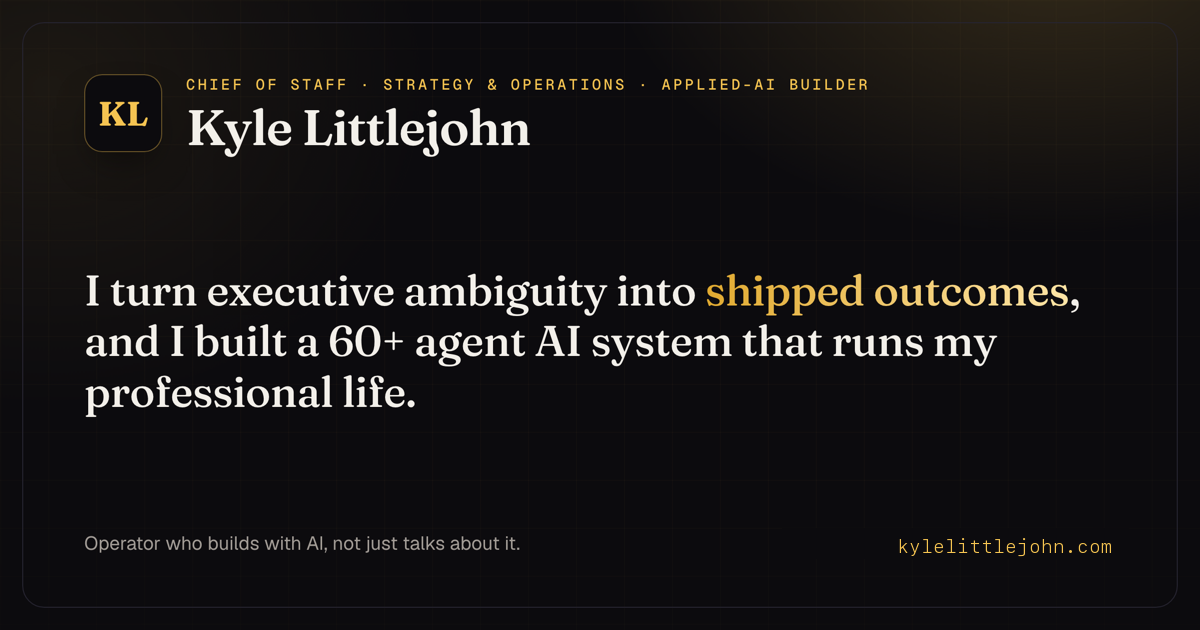
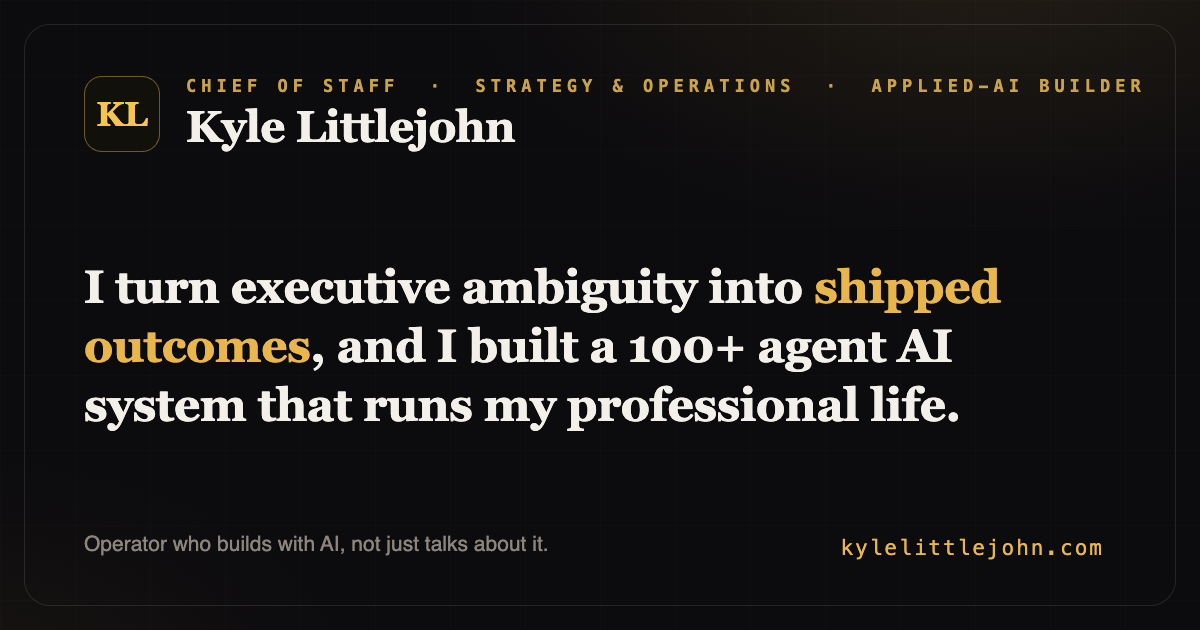
Rebuild LinkedIn/OG share card: retired '60+ agent' was baked into the PNG pixels (invisible to text lint) — now 100+ per canonical, with an editable HTML source committed so the card is never a locked image again

diff --git a/assets/website-card-source.html b/assets/website-card-source.html
@@ -1,0 +1,40 @@
+<!DOCTYPE html><html><head><meta charset="utf-8"><style>
+  /* Source for assets/website-card.png (1200x630 og image). Regenerate with:
+     "/Applications/Google Chrome.app/Contents/MacOS/Google Chrome" --headless=new \
+       --screenshot=website-card.png --window-size=1200,630 --hide-scrollbars \
+       file://$PWD/website-card-source.html
+     Rebuilt 2026-07-12: the prior PNG (no source file) carried the retired
+     "60+ agent" count baked into pixels — invisible to the canonical-facts
+     lint. Copy now matches the canonical 100+. Keep THIS file as the editable
+     source of truth for the card. */
+  *{margin:0;padding:0;box-sizing:border-box}
+  body{width:1200px;height:630px;background:#0c0b0e;font-family:Georgia,serif;overflow:hidden;position:relative}
+  body::before{content:"";position:absolute;inset:0;
+    background:radial-gradient(900px 500px at 82% -10%, rgba(245,196,81,.10), transparent 60%),
+               radial-gradient(700px 400px at -5% 110%, rgba(245,196,81,.05), transparent 60%);}
+  .grid{position:absolute;inset:0;opacity:.5;
+    background-image:linear-gradient(rgba(255,255,255,.025) 1px,transparent 1px),
+                     linear-gradient(90deg,rgba(255,255,255,.025) 1px,transparent 1px);
+    background-size:75px 75px}
+  .panel{position:absolute;inset:24px;border:1px solid rgba(255,255,255,.10);border-radius:26px}
+  .chip{position:absolute;left:84px;top:76px;width:76px;height:76px;border-radius:18px;
+    background:#12100a;border:1px solid rgba(245,196,81,.4);display:flex;align-items:center;justify-content:center;
+    color:#f5c451;font-size:34px;font-weight:700}
+  .kicker{position:absolute;left:186px;top:76px;font-family:Menlo,monospace;font-size:17px;
+    letter-spacing:5px;color:#c9a24a;font-weight:600}
+  .name{position:absolute;left:186px;top:102px;color:#f3f0ea;font-size:44px;font-weight:700;letter-spacing:-.5px}
+  .statement{position:absolute;left:84px;top:258px;width:1000px;color:#f3f0ea;
+    font-size:46px;line-height:1.28;font-weight:600;letter-spacing:-.3px}
+  .statement .gold{color:#e8b64c}
+  .foot{position:absolute;left:84px;bottom:74px;color:#8b857d;font-size:21px;font-family:Helvetica,Arial,sans-serif}
+  .domain{position:absolute;right:96px;bottom:70px;color:#e8b64c;font-family:Menlo,monospace;font-size:21px;letter-spacing:2px}
+</style></head><body>
+  <div class="grid"></div><div class="panel"></div>
+  <div class="chip">KL</div>
+  <div class="kicker">CHIEF OF STAFF &nbsp;·&nbsp; STRATEGY &amp; OPERATIONS &nbsp;·&nbsp; APPLIED-AI BUILDER</div>
+  <div class="name">Kyle Littlejohn</div>
+  <div class="statement">I turn executive ambiguity into <span class="gold">shipped outcomes</span>,
+    and I built a 100+ agent AI system that runs my professional life.</div>
+  <div class="foot">Operator who builds with AI, not just talks about it.</div>
+  <div class="domain">kylelittlejohn.com</div>
+</body></html>
